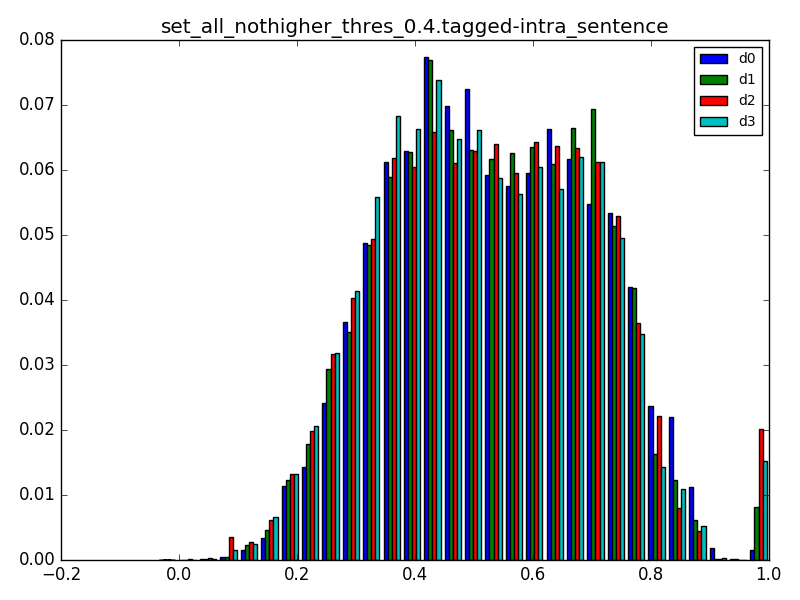
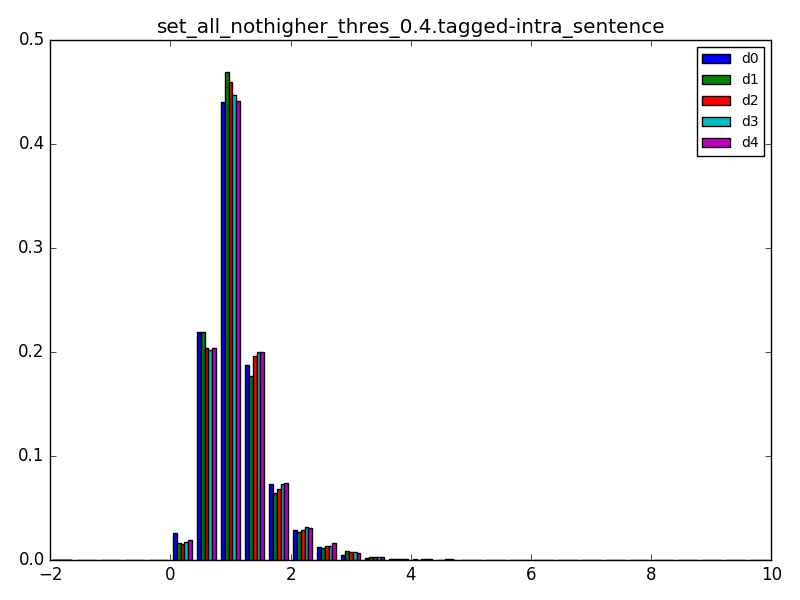
#17 - enable calculation of back_scaled n'th order intra sentence word similarity statistics

diff --git a/analysis/vectorization_and_clustering/vectorization.py b/analysis/vectorization_and_clustering/vectorization.py
@@ -30,13 +30,14 @@ def load_sentences(input_loc):
     return data_list;
 
 
-
-def vectorize_sentence(sentence, aggregate_types = ["MAX"]):
-    print(sentence);
+KEYS_PRINTED = False;
+def vectorize_sentence(sentence, aggregate_types = ["MAX"], include_data=["SIM"]):
     
-    ## ensure type is valid
+    ## ensure choices are valid
     for a_type in aggregate_types:
-        assert a_type in ["MAX", "MIN", "AVG", "STD"];
+        assert a_type in ["MAX", "MIN", "MEAN", "STDEV"];
+    for a_type in include_data:
+        assert a_type in ["SIM", "PUNCT", "LEN"];
         
     ## extract information
     info = feature_extraction.extract_sentence_information(sentence);
@@ -45,13 +46,30 @@ def vectorize_sentence(sentence, aggregate_types = ["MAX"]):
     data = dict();
     
     ## append basic data
-    basic_similarities = info["similarities"];
-    for sim_type in basic_similarities.keys():
-        normed_data = basic_similarities[sim_type]["norm"];
-        data[sim_type] = normed_data;
-        
+    if("SIM" in include_data):
+        basic_similarities = info["similarities"];
+        for sim_type in basic_similarities.keys():
+            normed_data = basic_similarities[sim_type]["norm"];
+            data[sim_type] = normed_data;
+            
+    ## append word length
+    if("LEN" in include_data):
+        data["length_convinience"] = info["length_convinience"]["norm"];
+        data["word_lengths"] = info["word_lengths"]["norm"];
+
+    ## append punctuation
+    if("PUNCT" in include_data):
+        basic_similarities = info["across_punctuation_similarities"];
+        for sim_type in basic_similarities.keys():
+            normed_data = basic_similarities[sim_type]["norm"];
+            data[sim_type] = normed_data;
+
+    
     ## create vector of data from aggragate_types selected
-    print(sorted(data.keys()));
+    global KEYS_PRINTED;
+    if(KEYS_PRINTED == False):
+        print(sorted(data.keys()));
+        KEYS_PRINTED = True;
     vector = [];
     if("MAX" in aggregate_types): vector.extend([data[data_type]["max"] for data_type in sorted(data.keys())])
     if("MIN" in aggregate_types): vector.extend([data[data_type]["min"] for data_type in sorted(data.keys())])
@@ -70,8 +88,10 @@ def vectorize_sentence(sentence, aggregate_types = ["MAX"]):
 ## build vector data        
 sentences = load_sentences("inputs/sentences_of_set_all.csv");
 vectors = [];
+vectorization_data=["MEAN", "STDEV"];
+include_data=["SIM","PUNCT","LEN"];
 for index, sentence in enumerate(sentences):
-    data_vec = vectorize_sentence(sentence[header_list.index("text")]);
+    data_vec = vectorize_sentence(sentence[header_list.index("text")], vectorization_data, include_data);
     new_vector = dict({
         "sentence_id": index,
         "essay_id": sentence[header_list.index("essay_id")],
@@ -83,11 +103,11 @@ for index, sentence in enumerate(sentences):
     if(index % 1000 == 0): print("vectorizing at sentence index "  +str(index));
 
 ## output data as csv
-with open("vectors/vectors_of_set_all.csv", "w+") as file:
+with open("vectors/vectors_of_set_all-"+"_".join(include_data)+"-"+"_".join(vectorization_data)+".csv", "w+") as file:
     writer = csv.writer(file);
     for i, data in enumerate(vectors):
         vector = [data["sentence_id"], data["essay_id"], data["essay_set"], data["score"]];
         vector.extend(data["data"]);
-        if(i % 200 == 0): print("writing sentence " + str(i));
+        if(i % 2000 == 0): print("writing sentence " + str(i));
         writer.writerow(vector); 
     

diff --git a/analysis/feature_extraction.py b/analysis/feature_extraction.py
@@ -22,8 +22,8 @@ import nltk;
 if __name__ == '__main__' and __package__ is None or True: ## enables imports of sibling "packages"
     from os import sys, path
     sys.path.append(path.dirname(path.dirname(path.abspath(__file__))))
-import utilities.plotting as plotting;
 ##########################
+import utilities.plotting as plotting;
 import utilities.embeddings.interface as embeddings; 
 
 ###########################################################################
@@ -69,6 +69,15 @@ def extract_sentence_information(sentence):
         information["similarities"]["d"+str(i)]["raw"] = calculate_nth_order_similarities(i, sentence); 
         information["similarities"]["d"+str(i)]["norm"] = normalize_information_list(information["similarities"]["d"+str(i)]["raw"]); 
         
+        
+    ## calculate scaled n'th order word similarities, up to 4th order
+    information["backscaled_similarities"] = dict();
+    for i in range(5):
+        information["backscaled_similarities"]["d"+str(i)] = dict();
+        information["backscaled_similarities"]["d"+str(i)]["raw"] = calculate_backscaled_nth_order_similarities(i, sentence); 
+        information["backscaled_similarities"]["d"+str(i)]["norm"] = normalize_information_list(information["backscaled_similarities"]["d"+str(i)]["raw"]); 
+    
+        
     ## calculate parse_tree similarities
     #information["parse_tree_similarities"] = [];
     
@@ -82,8 +91,13 @@ def extract_sentence_information(sentence):
         information["across_punctuation_similarities"][punctuation]["raw"] = calculate_similarities_across_punctuation(punctuation_choices[punctuation], sentence);
         information["across_punctuation_similarities"][punctuation]["norm"] = normalize_information_list(information["across_punctuation_similarities"][punctuation]["raw"]);
         
+        
+        
     ## calculate sentence length
     information["length"] = len(sentence);
+    information["length_convinience"] = dict(); ## convinience way of accessing this len data
+    information["length_convinience"]["raw"] = [len(sentence)];
+    information["length_convinience"]["norm"] = normalize_information_list(information["length_convinience"]["raw"]);
     
     ## calculate word lengths
     information["word_lengths"] = dict();
@@ -129,6 +143,21 @@ def normalize_information_list(info):
     
     return data;
         
+def calculate_backscaled_nth_order_similarities(order, sentence):
+    similarities = [];
+    for i in range(len(sentence)):
+        this_index = i;
+        prev_index = i - 1;
+        nth_order_back_index = prev_index - 1 - order; ## s.t. order 0 = -1/-2
+        if(prev_index < 0): continue; 
+        if(nth_order_back_index < 0): continue;
+        this_word = sentence[this_index];
+        prev_word = sentence[prev_index];
+        nth_back_word = sentence[nth_order_back_index];
+        similarity_top = embeddings.similarity(this_word, prev_word);
+        similarity_bot = embeddings.similarity(this_word, nth_back_word);
+        if(similarity_top != False and similarity_bot != False): similarities.append(similarity_top/float(similarity_bot));
+    return similarities;
 
 def calculate_nth_order_similarities(order, sentence):
     #print("calculating "+str(order)+"'th order statistics...");

diff --git a/analysis/statistics/all_text.py b/analysis/statistics/all_text.py
@@ -1,9 +1,10 @@
 ###########################################################################
 ## import dependencies
 ###########################################################################
-if __name__ == '__main__' and __package__ is None or True: ## enables imports of sibling "packages" and "parent"
+if __name__ == '__main__' and __package__ is None or True: 
     from os import sys, path
-    sys.path.append(path.dirname(path.dirname(path.abspath(__file__))))
+    sys.path.append(path.dirname(path.dirname(path.dirname(path.abspath(__file__))))) ## enables importing of parent sibling
+    sys.path.insert(0,'..') ## enables importing from parent dir
     
 import utilities.plotting as plotting;
 import feature_extraction;
@@ -53,8 +54,13 @@ def calculate_statistics_for_sentence_lists(lists):
     stats = dict();
     
     stats["intra_sentence"] = dict();
-    for i in range(4):
+    for i in range(5):
         stats["intra_sentence"]["d"+str(i)] = [];
+        
+        
+    stats["backscaled_intra_sentence"] = dict();
+    for i in range(5):
+        stats["backscaled_intra_sentence"]["d"+str(i)] = [];
         
     stats["punctuation"] = dict();
     stats["punctuation"]["period"] = [];
@@ -63,13 +69,19 @@ def calculate_statistics_for_sentence_lists(lists):
     stats["basic"] = dict();
     stats["basic"]["word_length"] = [];
     stats["basic"]["sentence_length"] = [];
+    index = -1;
     for sentence_list in lists:
         for sentence in sentence_list:
+            index += 1;
+            if(index % 1000 ==0): print("at index " + str(index));
             information = feature_extraction.extract_sentence_information(sentence);
             
             ## intra-sentence word similarity
-            for i in range(4):
+            for i in range(5):
                 stats["intra_sentence"]["d"+str(i)].extend(information["similarities"]["d"+str(i)]["raw"]);
+                
+            for i in range(5):
+                stats["backscaled_intra_sentence"]["d"+str(i)].extend(information["backscaled_similarities"]["d"+str(i)]["raw"]);
                 
             ## across comma similarity
             stats["punctuation"]["comma"].extend(information["across_punctuation_similarities"]["comma"]["raw"]);
@@ -84,8 +96,8 @@ def calculate_statistics_for_sentence_lists(lists):
     
 def plot_statistics_as_histograms(base_title, stats):
     ## intra-sentence word similarity
-    plotting.plot_metrics_on_histogram(stats["intra_sentence"], base_title+"-intra_sentence", normalized = True);
-    
+    #plotting.plot_metrics_on_histogram(stats["intra_sentence"], base_title+"-intra_sentence", normalized = True);
+    plotting.plot_metrics_on_histogram(stats["backscaled_intra_sentence"], base_title+"-intra_sentence", normalized = True);
     
     #plot_metrics_on_histogram(stats["intra-sentence"]);
 

diff --git a/utilities/plotting.py b/utilities/plotting.py
@@ -8,6 +8,7 @@ def plot_metrics_on_histogram(metrics, title, normalized = False, num_bins = 30,
     labels = [];
     for metric in sorted(metrics.keys()):
         this_list = metrics[metric];
+        print("metric : " + metric + " -> " + str(len(this_list)))
 
         this_weight = np.ones_like(this_list)
         if(normalized): this_weight = this_weight/float(len(this_list)) ## normalized so that all bars add to one
@@ -20,9 +21,10 @@ def plot_metrics_on_histogram(metrics, title, normalized = False, num_bins = 30,
     #colors = ['green', '#dbf8ff', 'white'];
     #colors = colors[:len(metrics)];
     this_fig, this_axis = plt.subplots()
-    this_axis.hist(data_list, num_bins, color=colors, weights=weights, label=labels, range=(-0.2, 1)) #, range=(-0.2, 1)
+    this_axis.hist(data_list, num_bins, color=colors, weights=weights, label=labels, range=(-2, 10)) #, range=(-0.2, 1)
     this_axis.legend(prop={'size': 10})
 
     plt.title(title);
     this_fig.tight_layout();
     this_fig.savefig("results/"+title+".png"); 
+    

diff --git a/analysis/vectorization_and_clustering/assessment.py b/analysis/vectorization_and_clustering/assessment.py
@@ -47,7 +47,7 @@ def calculate_statistics_on_clusters(clusters):
     return stats;
 
 
-def plot_the_statistics(statistics):
+def plot_the_statistics(statistics, base_file_name):
     cluster_count = len(statistics.keys());
     
     for key, statistic in statistics.iteritems():
@@ -58,7 +58,7 @@ def plot_the_statistics(statistics):
         #x = np.linspace(mu-3*variance,mu+3*variance, 100)
         plt.plot(x_axis, norm.pdf(x_axis,mu,sigma))
 
-    plt.title("approximate scores from cluster statistics, n = " + str(cluster_count));
+    plt.title("approximate scores from cluster statistics, n = " + str(cluster_count) + " \n"+base_file_name);
     #plt.show()
     return plt;
 
@@ -82,7 +82,7 @@ def main(source_file):
         json.dump(stats, outfile, sort_keys=True, indent=4)
         print json.dumps(stats, sort_keys=True, indent=4)
     
-    plt = plot_the_statistics(stats);
+    plt = plot_the_statistics(stats, base_file_name );
     plt.savefig('results/'+base_file_name+'.png');
     
     

diff --git a/analysis/vectorization_and_clustering/clustering.py b/analysis/vectorization_and_clustering/clustering.py
@@ -9,7 +9,7 @@
 import csv;
 from sklearn.cluster import KMeans;
 import plac;
-import time;
+import datetime;
 
 
 def load_sentences(input_loc):
@@ -65,7 +65,7 @@ def main(source_file, n_clusters):
     clusters = KMeans(n_clusters=n_clusters).fit_predict(features);
     
     print("saving results...");
-    record_results(sentences, clusters, base_file_name + "_n"+str(n_clusters)+"_"+str(time.time())); ## note, timestamp included in file name so that we can have multiple results for the same n_clusters and the same file. kmeans results vary each time.
+    record_results(sentences, clusters, base_file_name + "_n"+str(n_clusters)+"_"+str(datetime.datetime.now().strftime("%Y.%m.%d.%H.%M"))); ## note, timestamp included in file name so that we can have multiple results for the same n_clusters and the same file. kmeans results vary each time.
     
     
     

diff --git a/utilities/__init__.py b/utilities/__init__.py
@@ -1,0 +1,8 @@
+## does import X on all files X in this directory
+
+import os
+for module in os.listdir(os.path.dirname(__file__)):
+    if module == '__init__.py' or module[-3:] != '.py':
+        continue
+    __import__(module[:-3], locals(), globals())
+del module

diff --git a/utilities/embeddings/__init__.py b/utilities/embeddings/__init__.py
@@ -1,0 +1,8 @@
+## does import X on all files X in this directory
+
+import os
+for module in os.listdir(os.path.dirname(__file__)):
+    if module == '__init__.py' or module[-3:] != '.py':
+        continue
+    __import__(module[:-3], locals(), globals())
+del module
